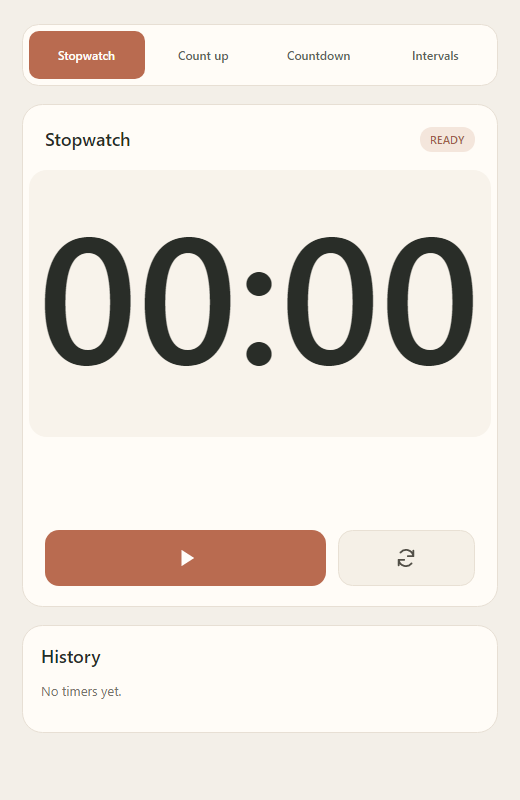
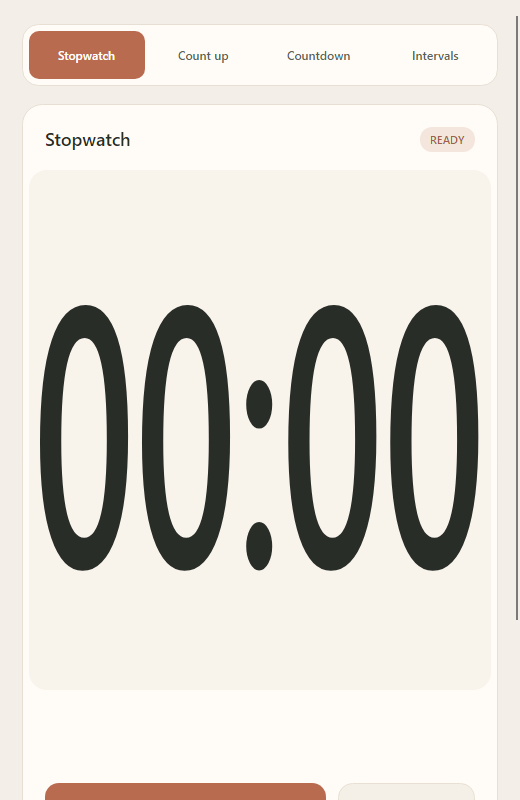
Double the height of timer digits across all modes

diff --git a/Timer/Views/MainView.axaml.cs b/Timer/Views/MainView.axaml.cs
@@ -15,7 +15,8 @@ public partial class MainView : UserControl
     {
         InitializeComponent();
 
-        SizeChanged += (_, args) => TimeDisplayPanel.Height = args.NewSize.Height / 3;
+        SizeChanged += (_, args) => TimeDisplayPanel.Height =
+            Math.Min(args.NewSize.Height * 2 / 3, Math.Min(args.NewSize.Width, 640));
         AttachedToVisualTree += (_, _) => (DataContext as MainViewModel)?.ResumeUpdates();
         DetachedFromVisualTree += (_, _) => (DataContext as MainViewModel)?.SuspendUpdates();
 
